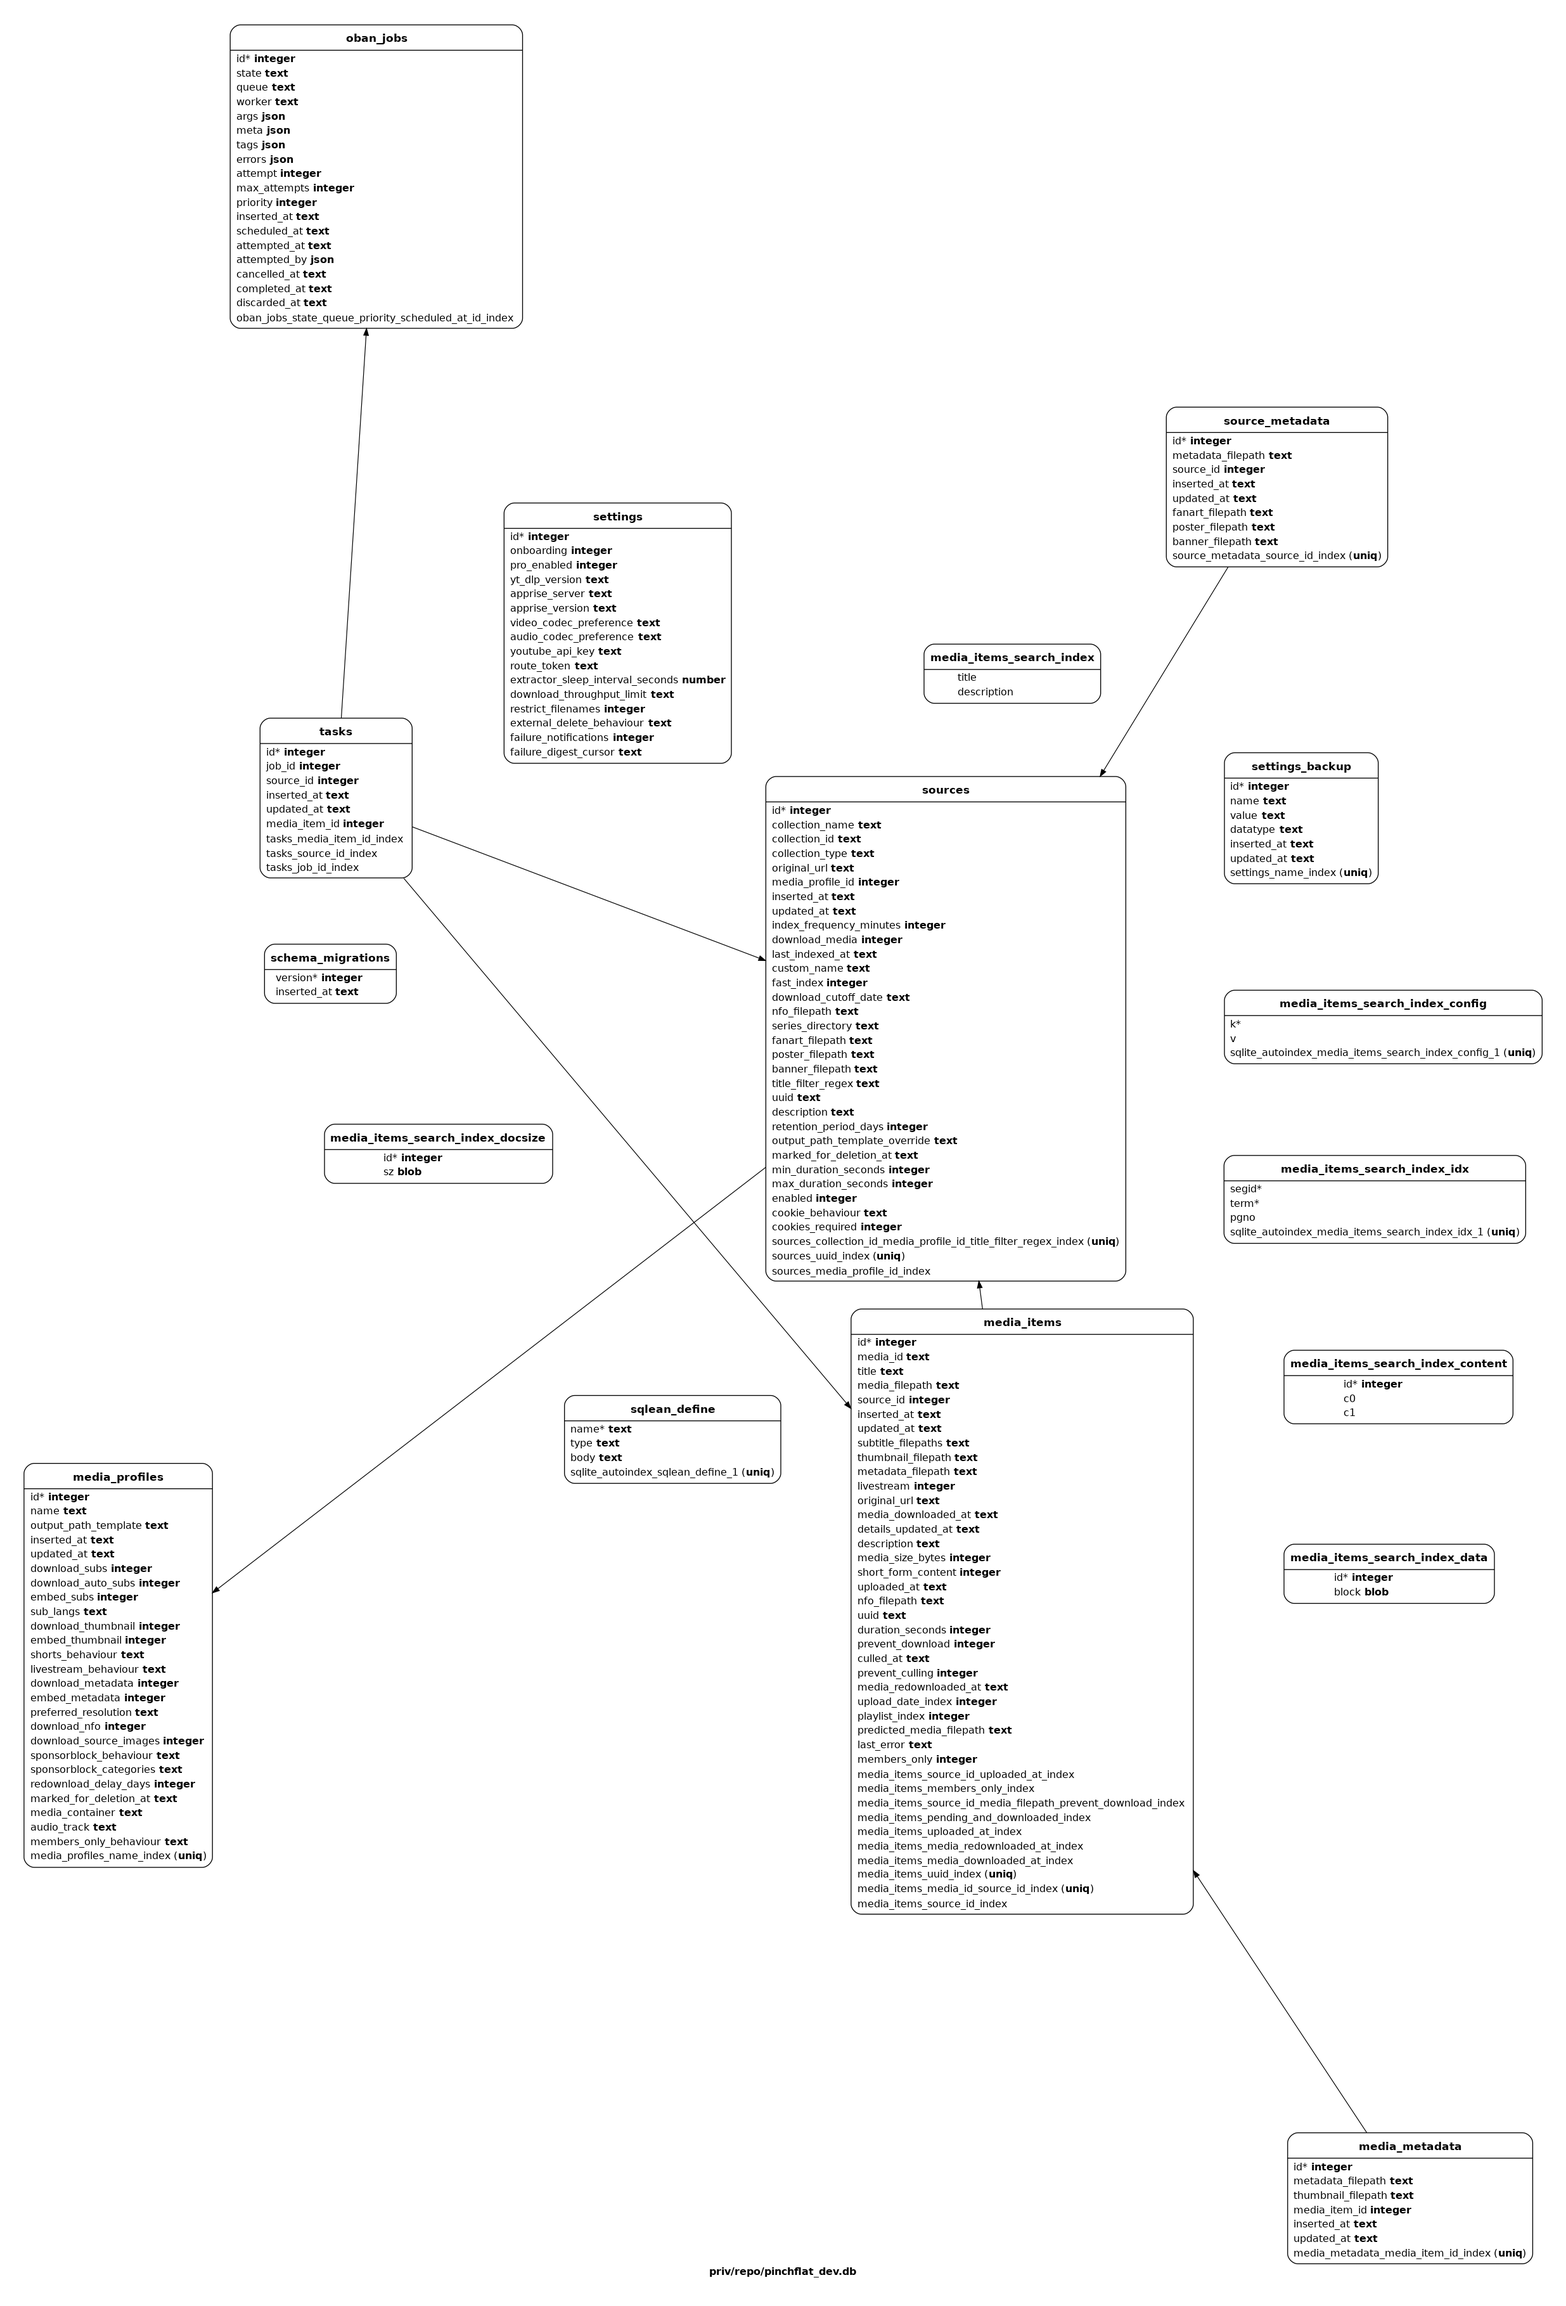
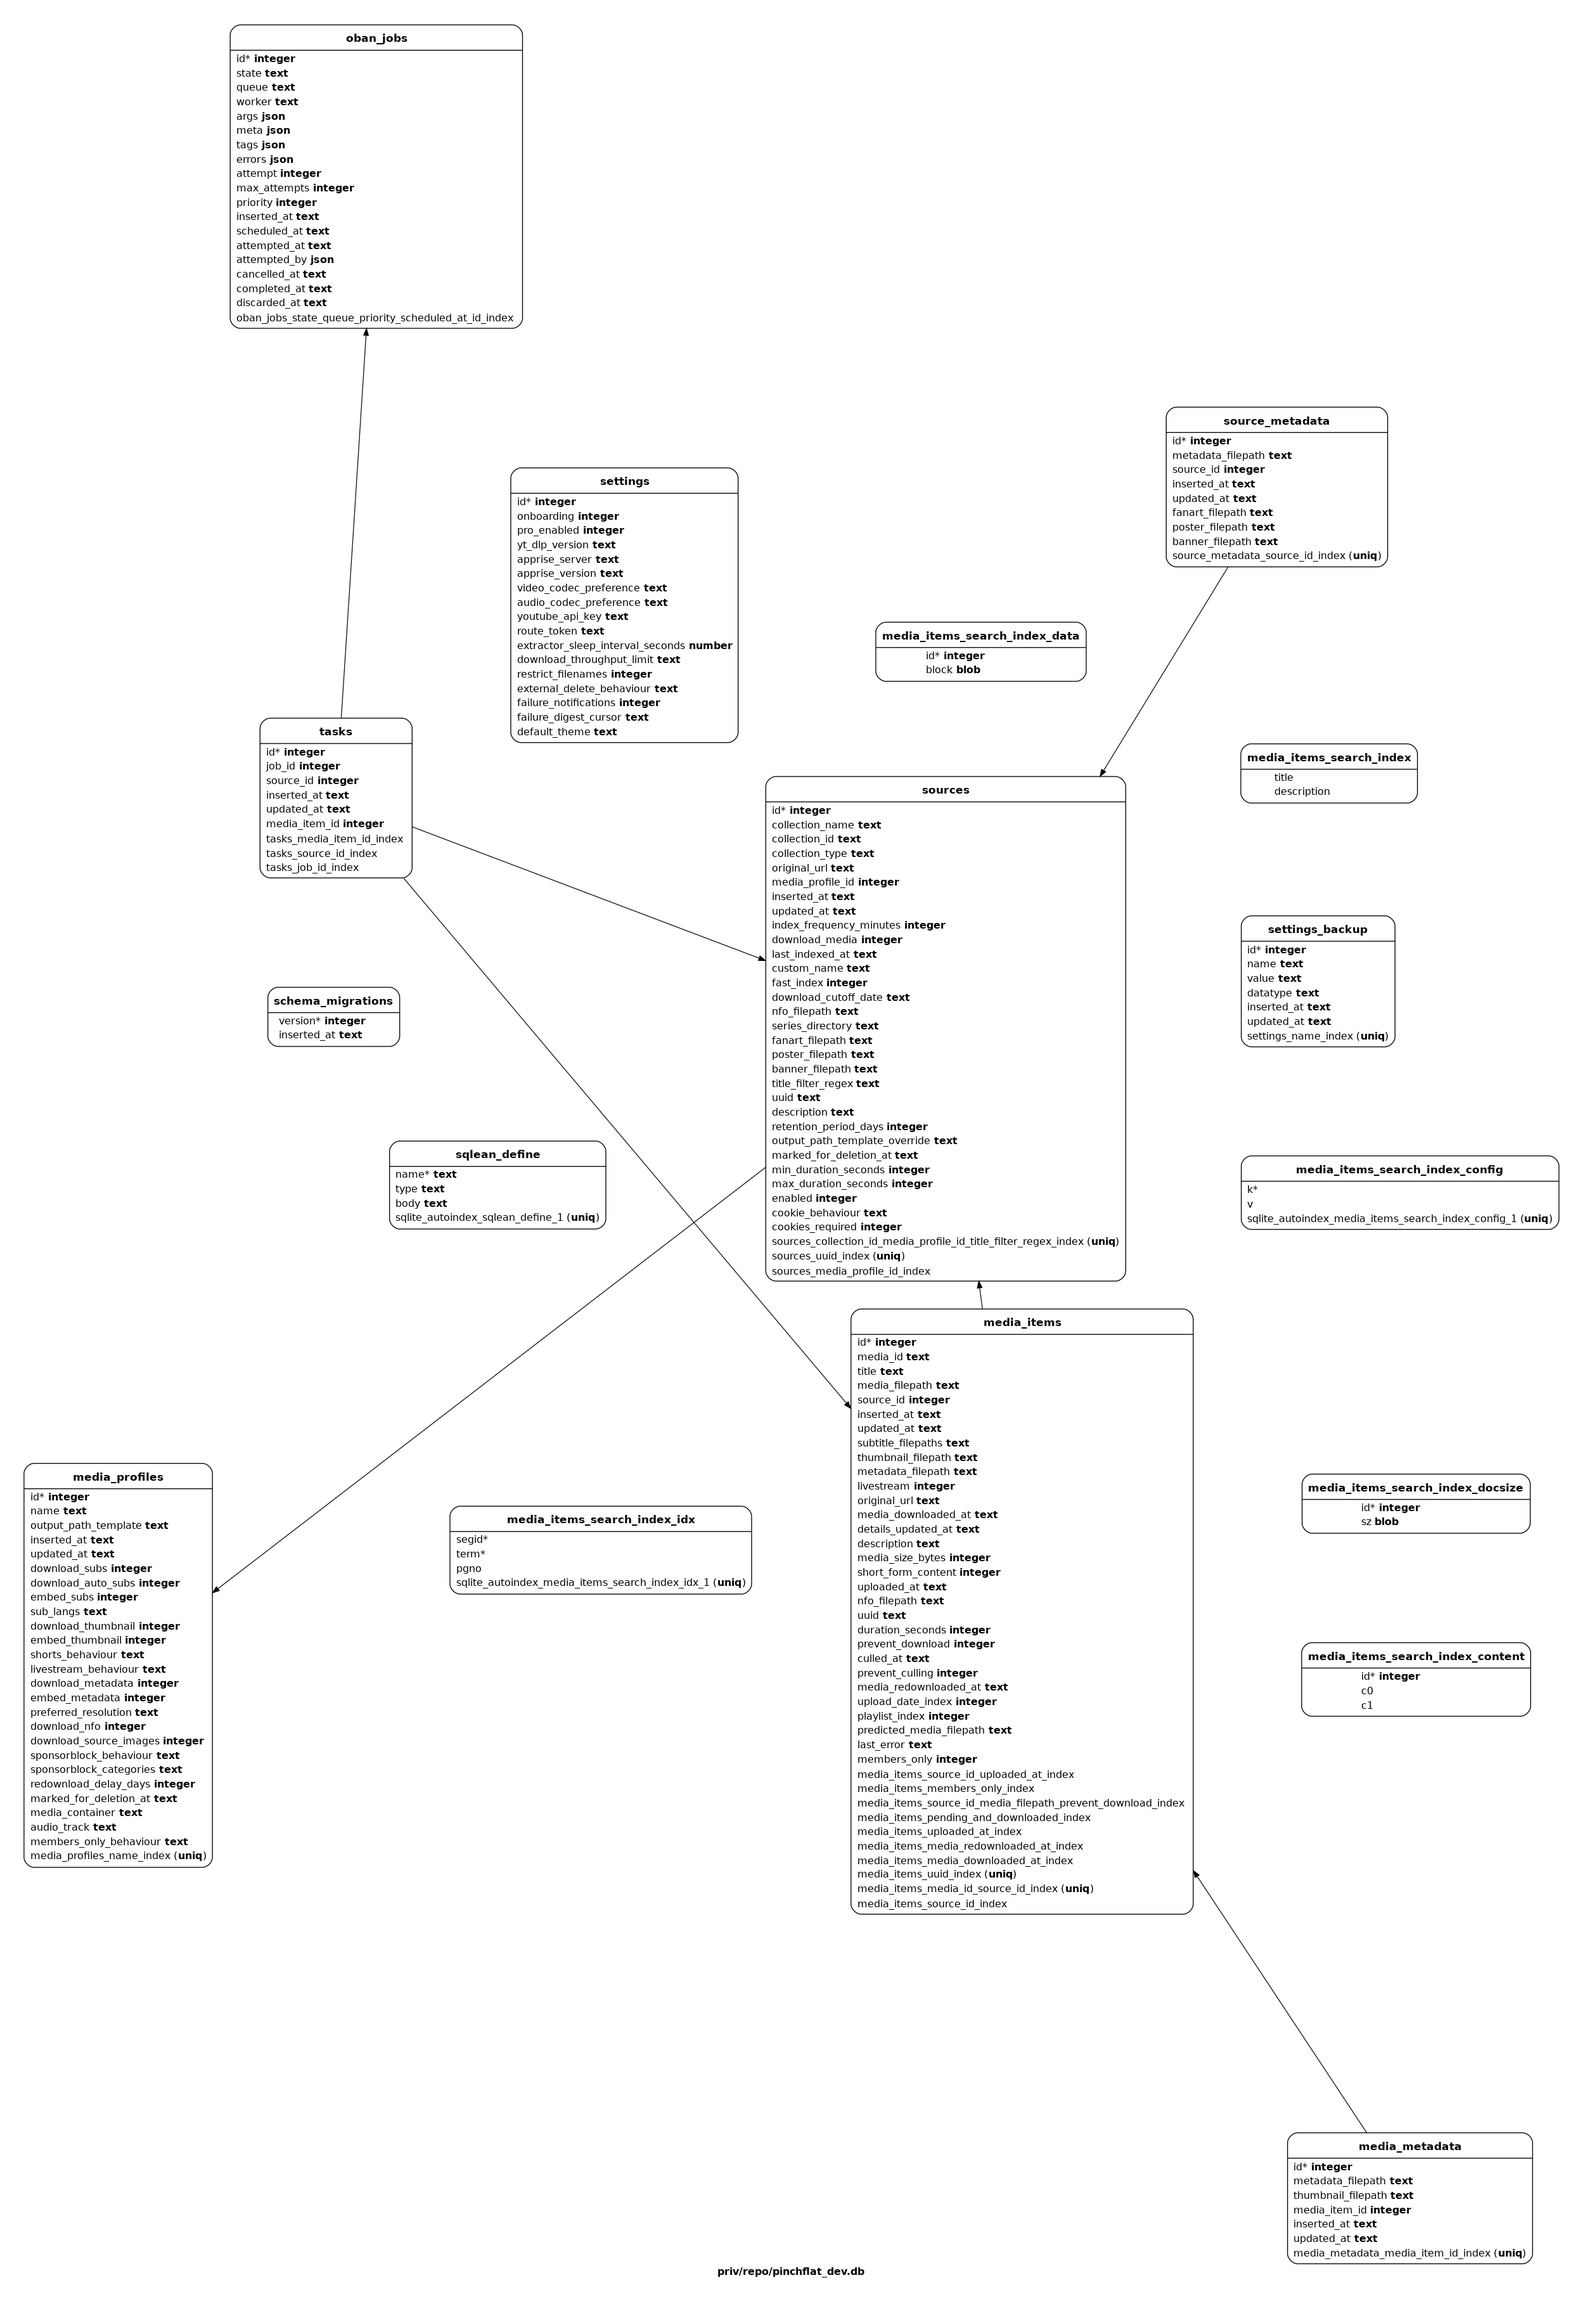
Add dark/light theme toggle and a default-theme preference
- Theme infrastructure: a head script applies the effective theme to <html>
  BEFORE first paint (no flash) with the priority: per-browser toggle
  (localStorage "re-theme") > server default > OS preference. The Tailwind
  `dark` class plus a theme-dark/theme-light marker land on <html>; body
  background is driven by html.theme-* CSS rules.
- Nav toggle: sun/moon button in the top nav flips the theme live and
  persists the choice per browser (localStorage), overriding the server
  default.
- Preference section: new "Preferences" block at the top of Settings with a
  default-theme select (Dark / Light / Follow system) backed by a
  settings.default_theme column (migration 20261018000009, default "dark"
  preserving the current look).
- Light-mode sweep: tables, table headers, row hovers, home stat cards,
  media show/bulk bars, search boxes, code chips, and thumbnail borders now
  use dual-mode classes (bg-white dark:bg-boxdark etc). The sidebar
  intentionally stays dark in both modes as a design accent.

Verified with playwright: toggle flips live, persists across reloads, and
light mode renders correctly on the sources page (white cards/tables, light
body, dark sidebar rail).

Full suite: 1043 tests, 0 failures.

diff --git a/assets/css/app.css b/assets/css/app.css
@@ -29,3 +29,14 @@
     scrollbar-width: none; /* Firefox */
   }
 }
+
+/* Theme classes are applied to <html> before first paint (see root layout).
+   Light is the absence of the Tailwind `dark` class; `theme-dark/theme-light`
+   exist so the pre-phx body can be styled without a flash. */
+html.theme-dark body {
+  @apply bg-boxdark-2;
+}
+
+html.theme-light body {
+  @apply bg-whiten;
+}
